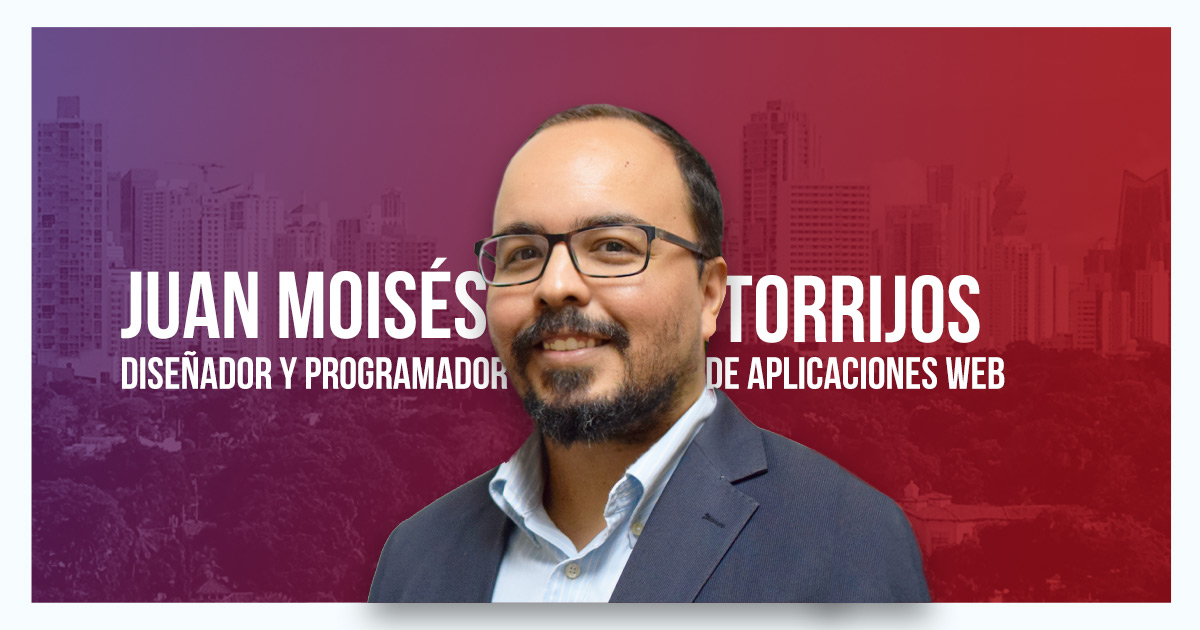
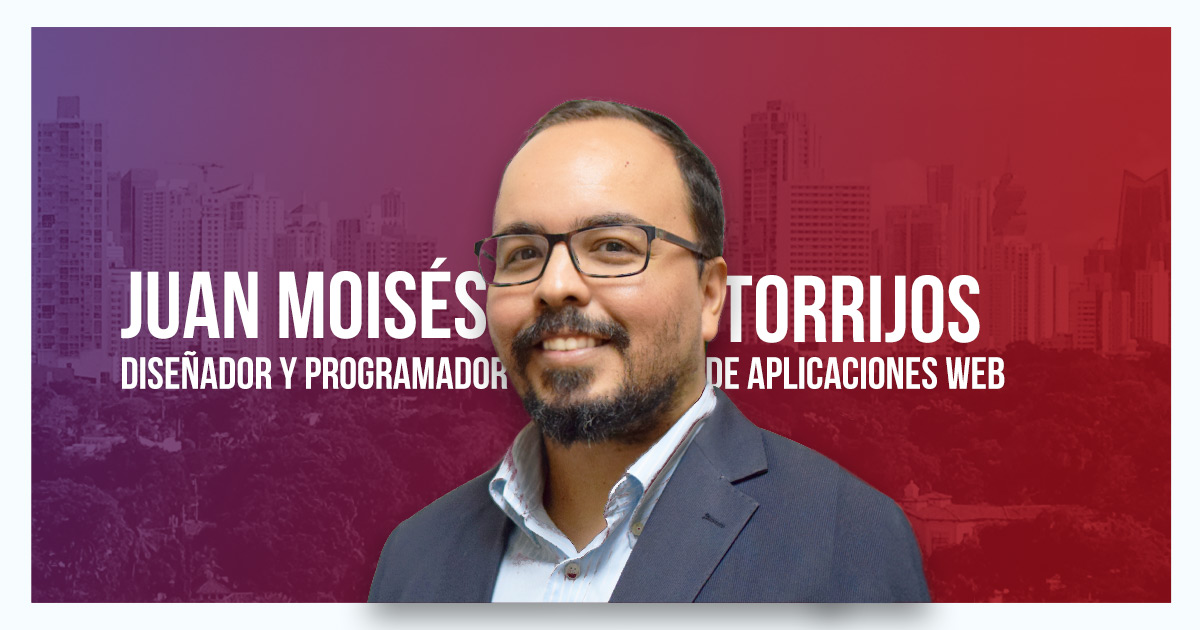
Improve hero image.

diff --git a/src/components/hero.js b/src/components/hero.js
@@ -6,7 +6,7 @@ import "../styles/_hero.sass"
 const Hero = () => {
   const data = useStaticQuery(graphql`
     query {
-      file(relativePath: { eq: "juan-moises-torrijos-2020.png" }) {
+      file(relativePath: { eq: "juan-moises-torrijos-2020-2.png" }) {
         childImageSharp {
           fluid(maxWidth: 577, maxHeight: 530) {
             ...GatsbyImageSharpFluid_withWebp_tracedSVG
